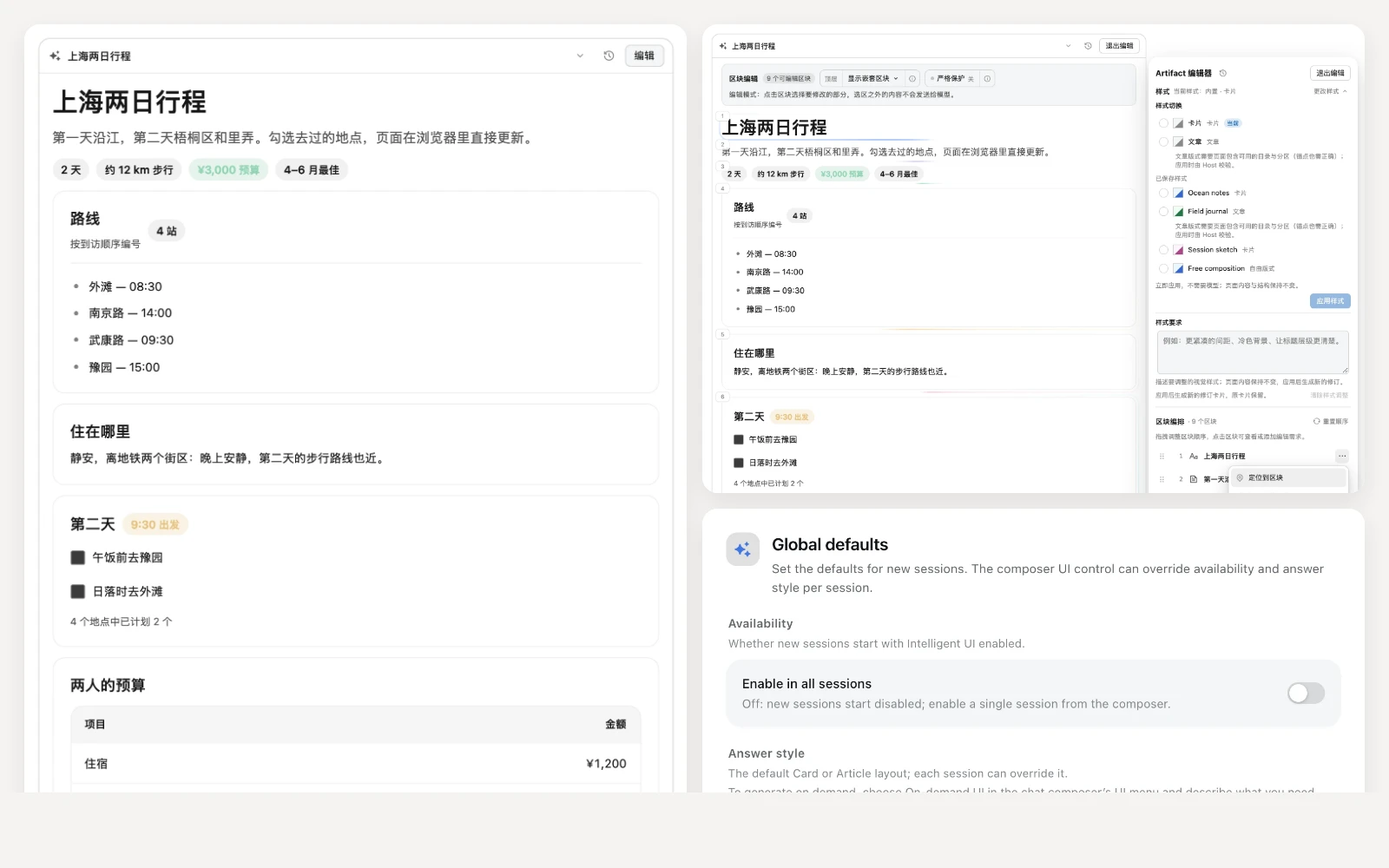
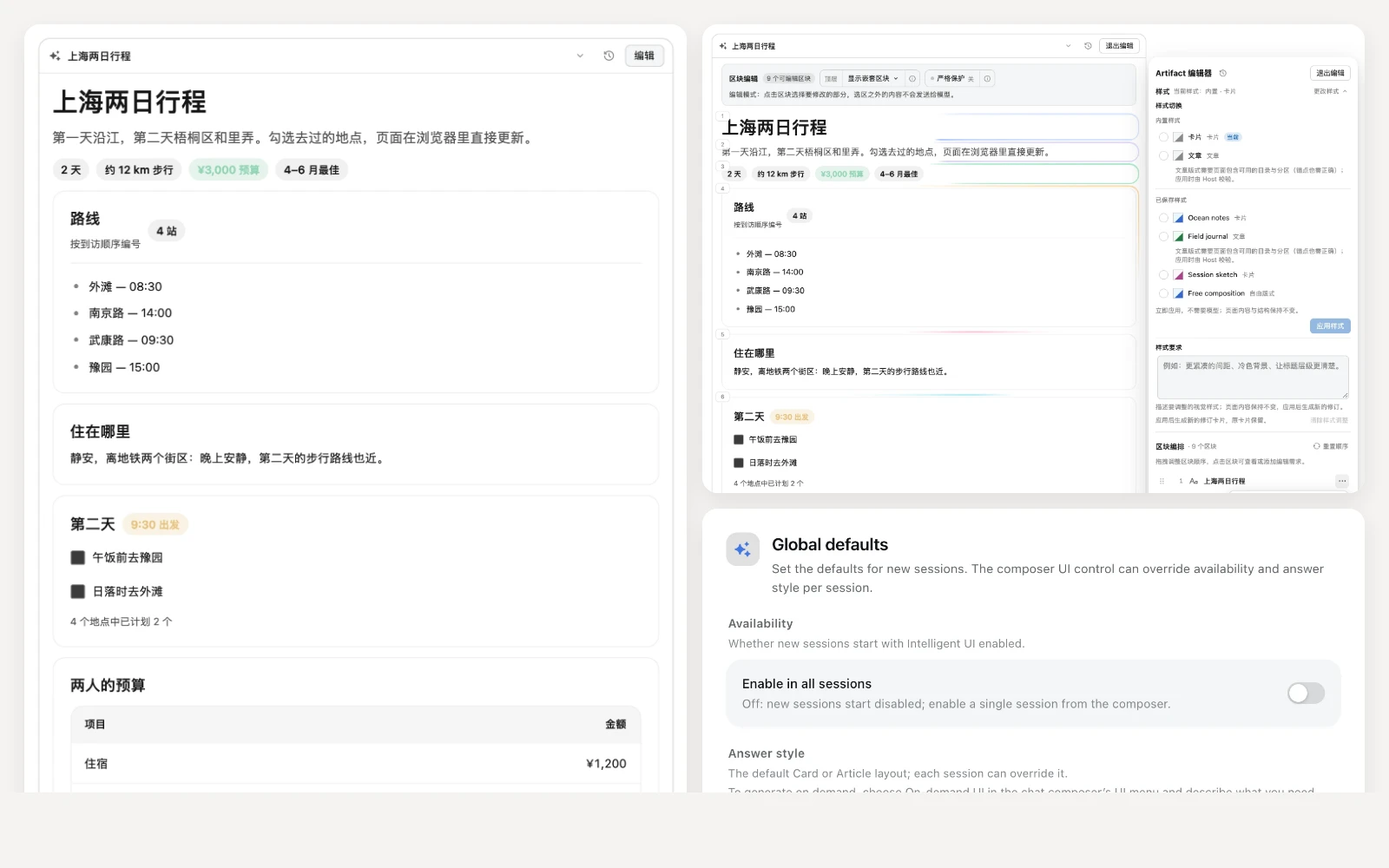
style(editor): label and separate built-in vs saved style groups
The style picker now shows "Built-in styles" and "Saved styles" as explicit
group labels with a divider between them. Both remain options in one native
radio group, so the visual split is presentational; the current badge,
swatches, layout labels and Article hint are unchanged. Regenerate the editor
captures and sync facts (client CSS 221.7 kB; pack 65 files,
6,046,933 / 12,893,833 bytes).

Changed region(s): [[0.6875, 0.124, 0.9688, 0.558]]

diff --git a/src/client/artifact-edit/EditPanel.tsx b/src/client/artifact-edit/EditPanel.tsx
@@ -1548,7 +1548,14 @@ export function EditPanel({ t, session, actions, closing = false, onOpenHistory,
                           : option.layout === 'article' ? t('edit.historyStyleArticle') : t('edit.historyStyleFree')
                         return (
                           <div className="dsh-iui-edit-style-target-group" key={`${option.target.kind}:${option.target.kind === 'template' ? option.target.styleId : option.layout}`}>
-                            {firstSaved ? <span className="dsh-iui-edit-style-saved-group" data-dsh-iui-edit-style-saved-group>{t('edit.styleSavedGroup')}</span> : null}
+                            {index === 0 && !saved ? (
+                              <span className="dsh-iui-edit-style-group-label" data-dsh-iui-edit-style-builtin-group>{t('edit.styleBuiltinGroup')}</span>
+                            ) : null}
+                            {firstSaved ? (
+                              <div className="dsh-iui-edit-style-group-separator" role="presentation">
+                                <span className="dsh-iui-edit-style-group-label" data-dsh-iui-edit-style-saved-group>{t('edit.styleSavedGroup')}</span>
+                              </div>
+                            ) : null}
                             <label
                               className={`dsh-iui-edit-style-target${checked ? ' is-checked' : ''}${current ? ' is-current' : ''}`}
                               onPointerEnter={() => { previewSwitchOption(option) }}

diff --git a/src/shared/locales.ts b/src/shared/locales.ts
@@ -347,6 +347,7 @@ export const zh = {
   'edit.styleUnavailable': '当前 Host 不支持样式调整；请刷新或升级后再试。',
   'edit.a11yStyleCleared': '已清除样式调整',
   'edit.styleSwitchGroup': '样式切换',
+  'edit.styleBuiltinGroup': '内置样式',
   'edit.styleSwitchNote': '立即应用，不需要模型；页面内容与结构保持不变。',
   'edit.styleSwitchApply': '应用样式',
   'edit.styleSwitchBusy': '正在切换…',
@@ -880,6 +881,7 @@ export const en: Record<keyof typeof zh, string> = {
   'edit.styleUnavailable': 'This Host does not support style editing; refresh or upgrade and try again.',
   'edit.a11yStyleCleared': 'Style change cleared',
   'edit.styleSwitchGroup': 'Switch style',
+  'edit.styleBuiltinGroup': 'Built-in styles',
   'edit.styleSwitchNote': 'Applies immediately without a model turn; page content and structure stay unchanged.',
   'edit.styleSwitchApply': 'Apply style',
   'edit.styleSwitchBusy': 'Switching…',

diff --git a/src/client/artifact-edit/artifact-edit.css b/src/client/artifact-edit/artifact-edit.css
@@ -963,11 +963,20 @@
   min-width: 0;
 }
 
-.dsh-iui-edit-style-saved-group {
-  margin-top: 4px;
+.dsh-iui-edit-style-group-label {
+  display: block;
+  margin: 2px 0 4px;
   color: var(--dsw-alias-label-tertiary);
   font-size: 11px;
+  font-weight: 600;
   line-height: 16px;
+  letter-spacing: 0.02em;
+}
+
+.dsh-iui-edit-style-group-separator {
+  margin: 6px 0 2px;
+  padding-top: 8px;
+  border-top: 1px solid var(--dsw-alias-border-l1);
 }
 
 .dsh-iui-edit-style-target {

diff --git a/CHANGELOG.md b/CHANGELOG.md
@@ -11,7 +11,7 @@ been published yet.
 
 - **Revision history supports deletion.** Recorded revisions now expose an icon-only trash Delete action (with an accessible label) behind an inline confirmation. The authenticated revision probe route accepts `DELETE` for the same artifact/revision identity; the Host deletes the durable record and its retained program, refuses the initial render, and refuses a revision that is still another revision's base (`409 revision_referenced`). Deleting the current/latest record is allowed and the next newest record becomes latest. The client removes matching local revision cards and refreshes the open history; already-rendered model cards are not removed. No new durable field or history source enum value is introduced.
 
-- **Deterministic style switching in the Artifact editor (zero model).** The style section can now switch a rendered page to a built-in Card/Article layout or a visible saved template without a model turn: the client previews the template theme and Article shell locally, and Apply records a new revision with the same program and the resolved `style`/`styleId` (a result-owned temporary snapshot is dropped; built-in Free is rejected, Free only through a saved free template). The existing authenticated `POST /api/intelligent-ui/artifact-structure` gains a request-level `targetStyle` plus empty `operations` under a single-intent contract; the Host resolves durable targets (`style_missing` for invisible/deleted session templates), reuses the exact Toc/Section+anchor article predicate (moved into `src/host/program-validation.ts`), verifies the claimed base style identity for recorded base revisions (revision ≥ 2; revision 1 has no stored record, 409 `base_style_mismatch`, nothing written), applies the no-op/drop-snapshot rules, and records a `struct_` revision without `editedBlockIds` as the switch signature. No new durable revision fields or history enum values: old clients see a structure revision, new clients label it as a style switch, and an optional `styleSwitch` capability bit hides the picker on old Hosts. Revisions are local cards only (not in transcript replay/export) and template directives do not reflow content — both documented as limits. Verification: Node **621/621** (Host **301**, Client **299**, packaging **21**); browser 9/9, `artifact-edit` **498 checks**; `npm run pack:check` **65 files**, **6,047,305** bytes packed, **12,894,718** bytes unpacked.
+- **Deterministic style switching in the Artifact editor (zero model).** The style section can now switch a rendered page to a built-in Card/Article layout or a visible saved template without a model turn: the client previews the template theme and Article shell locally, and Apply records a new revision with the same program and the resolved `style`/`styleId` (a result-owned temporary snapshot is dropped; built-in Free is rejected, Free only through a saved free template). The existing authenticated `POST /api/intelligent-ui/artifact-structure` gains a request-level `targetStyle` plus empty `operations` under a single-intent contract; the Host resolves durable targets (`style_missing` for invisible/deleted session templates), reuses the exact Toc/Section+anchor article predicate (moved into `src/host/program-validation.ts`), verifies the claimed base style identity for recorded base revisions (revision ≥ 2; revision 1 has no stored record, 409 `base_style_mismatch`, nothing written), applies the no-op/drop-snapshot rules, and records a `struct_` revision without `editedBlockIds` as the switch signature. No new durable revision fields or history enum values: old clients see a structure revision, new clients label it as a style switch, and an optional `styleSwitch` capability bit hides the picker on old Hosts. Revisions are local cards only (not in transcript replay/export) and template directives do not reflow content — both documented as limits. Verification: Node **621/621** (Host **301**, Client **299**, packaging **21**); browser 9/9, `artifact-edit` **498 checks**; `npm run pack:check` **65 files**, **6,046,933** bytes packed, **12,893,833** bytes unpacked.
 - **Natural-language style editing inside the Artifact editor (B1).** The edit canvas gains a style section: a bounded instruction (max 2000 chars) asks the model to restyle the rendered page while keeping its recorded layout (card/article/free never cross). The edit request is now a discriminated `block`/`style` union; the block envelope header and program body stay compatible (the prose is now generated from the shared contract helper, so the whole serialized text is not byte-identical), and the style variant carries no block/arrangement/global fields. A style request is applied with `render_ui` exactly once (`editRequestId` + complete program + recorded style + complete `temporaryStyle`, no `styleId`); the Host accepts the model-approved snapshot only because the pending style request authorizes it, never auto-applies a style request without an explicit selector, rejects a style apply while an on-demand operation is bound (no double result-snapshot write), shares one snapshot validator with on-demand, records the revision with the model snapshot (no `styleId`/`editedBlockIds`), treats an unchanged program+snapshot as a no-op, and adds a preservation warning for a wholesale redesign. The editor hides the legacy footer Adjust style action when the Host advertises the capability and the card is editable (old Hosts or non-editable cards keep the fallback); Save as template stays. Root-cause fix: a revision carrying a `temporaryStyle` now registers its ResultStore snapshot under the revision id before the revision write, so Save as template (and the legacy footer action) work on edited/restored/structure temporary revisions; history infers these without new durable fields, and an optional `styleEdit` projection bit drives the capability without changing revision/history schemas. Verification: see the B1 entry of `docs/verification.md`.
 - **Artifact base registration lifecycle.** Cards rendered before the authoritative program registry existed had no Host state, so structure operations, revision history and restore failed differently (404 `artifact_missing`/`base_missing`, empty history, `source_missing`). A new authenticated `POST /api/intelligent-ui/artifact-base` closes the gap with one write-once registration transition that covers both legacy shapes — the initial anchor (`revisionId === artifactId`; revision 1 is program-only and revision records start at 2) and a recorded anchor (`revisionId` belongs to the artifact, e.g. after the program was LRU-evicted) — validates the program structurally, never overwrites a registered program (the same program is an idempotent no-op with `registered:false`, a different one is 409 `program_conflict`), writes no revision record, caps the body at 1 MiB (a 200k multi-byte program can exceed 300 KiB) and never echoes the program. The structure route now shares one `resolveArtifactBase` boundary (`artifact_missing` vs `base_missing` and their text unchanged), and the restore route keeps its existing program-only fallback unchanged. Accepted deviations are documented instead of hidden: a registered initial revision's `createdAt` becomes the registration time, untouched old cards stay unregistered (no backfill), and evicted non-current programs stay unrecoverable client-side. Verification: see the base-registration entry of `docs/verification.md`; the B2 gate is recorded in the B2 entry. Review follow-ups: a failed authoritative request invalidates the client registration cache so close/reopen genuinely retries (guarded against stale in-flight answers), the program store writes to disk before committing memory so a 500 leaves no phantom registration, an over-limit padded program is rejected as 400 `invalid_program`, and the restore route keeps its pre-existing program-only fallback (no semantics change).
 - **Old cards register automatically on first authoritative use.** The client's single `ensureArtifactBase` entry (single-flight plus a permanent per-artifact/revision cache) fires when the edit canvas opens (new, retained and submitted-reused drafts), before the structure preview and apply POSTs, before loading the revision-history dialog and before restore sends. It posts the rendered program once and caches `present`/`registered`; a 404 from an old Host caches an unsupported capability for that revision (degrade, never probe it again); network/other failures stay retryable and never surface to the user. Old-Host mixed deployments therefore degrade to instruction editing or a re-render instead of blocking. Verification: `test/host/artifact-base.test.mjs` (12 tests), `test/client/artifact-base.test.mjs` (5 tests), 3 new store tests in `test/client/artifact-edit.test.mjs`, and browser scenario 36 (one registration per legacy card, registration before structure requests, old-Host 404 degrade, new preview/props copy).
@@ -85,8 +85,10 @@ been published yet.
 
 ### Fixed
 
+- **The style picker visually separates Built-in styles from Saved styles.** The two groups now carry their own labels and a divider; all options stay in one mutually exclusive radio group, so the grouping is presentation only. Template swatches and layout labels are unchanged.
+
 - **The style-switch target controls are custom-drawn radios.** The B2 picker now draws its own 16px exact-circle ring/dot selected state instead of the native OS radio, while keeping the native input for keyboard and assistive technology; forced-colors keeps a visible checked/focus state. The style color swatches are now square color chips (canvas/accent): removing the border radius lets both theme colors fill all four corners instead of leaving transparent clipped corners. The `background-origin`/`background-clip` declarations now follow the `background` shorthand (which resets them to padding-box), so the gradient covers the border box and no 1px edge seam remains. The radio still resets the shell theme's global superellipse with `corner-shape: round` so it renders a true 16px circle; the editor screenshots were regenerated.
-- **Model tool-call contracts are now single-sourced and Host-coupled, and the third/fourth review rounds' edge paths are fixed.** `styleEditToolContract`/`buildStyleEditToolArgs` and `blockEditToolContract`/`buildBlockEditToolArgs` define the required/optional/forbidden render_ui and edit_ui_blocks arguments; the serializers emit a generated `Tool-call contract:` line, and Host coupling tests execute the helper-produced args (style builtin/saved/temporary; block fragments/order-only, including requestId/styleId selectors) so the envelope cannot drift from the Host. Block prose now escapes `<` in instructions/additions/global prose, and the parser only accepts a header on the next line and skips program-body markers (including a literal `<artifact-program>`). An order-only/global-only edit now reports the recorded title/styleId (including `presentationMeta`), temporary-style additions-only sends are allowed, pending block edits render the artifact's recorded style instead of the session template (no order-only template deadlock), recorded result-owned snapshots are authoritative for content edits, unsaved block drafts block a style switch, and the Article hint/dirty copy is accurate. The fourth-pass review fixes are included too: the route capability is updated from the deferred inject callback with a boolean-safe schema, block titles are escaped in prose, the sent-message summary uses the own-line program fence, and the E2E applies a reachable saved card template. Verification: Node **621/621** (Host **301**, Client **299**, packaging **21**); browser 9/9, `artifact-edit` **498 checks**; pack 65 files, **6,047,305** packed / **12,894,718** unpacked.
+- **Model tool-call contracts are now single-sourced and Host-coupled, and the third/fourth review rounds' edge paths are fixed.** `styleEditToolContract`/`buildStyleEditToolArgs` and `blockEditToolContract`/`buildBlockEditToolArgs` define the required/optional/forbidden render_ui and edit_ui_blocks arguments; the serializers emit a generated `Tool-call contract:` line, and Host coupling tests execute the helper-produced args (style builtin/saved/temporary; block fragments/order-only, including requestId/styleId selectors) so the envelope cannot drift from the Host. Block prose now escapes `<` in instructions/additions/global prose, and the parser only accepts a header on the next line and skips program-body markers (including a literal `<artifact-program>`). An order-only/global-only edit now reports the recorded title/styleId (including `presentationMeta`), temporary-style additions-only sends are allowed, pending block edits render the artifact's recorded style instead of the session template (no order-only template deadlock), recorded result-owned snapshots are authoritative for content edits, unsaved block drafts block a style switch, and the Article hint/dirty copy is accurate. The fourth-pass review fixes are included too: the route capability is updated from the deferred inject callback with a boolean-safe schema, block titles are escaped in prose, the sent-message summary uses the own-line program fence, and the E2E applies a reachable saved card template. Verification: Node **621/621** (Host **301**, Client **299**, packaging **21**); browser 9/9, `artifact-edit` **498 checks**; pack 65 files, **6,046,933** packed / **12,893,833** unpacked.
 
 - **Switching the Intelligent UI scope no longer forces the Display style panel open.** Choosing Off / This session only / Follow global now only sends the scope command; the style panel opens from exactly two explicit entries — the menu's **Display style** row, or clicking the already-active scope entry when it resolves to enabled (an off scope, or follow-global while the global switch is off, simply closes the menu). The style-panel E2E asserts no auto-open after a scope switch and covers both explicit routes.
 

diff --git a/docs/architecture.en.md b/docs/architecture.en.md
@@ -210,7 +210,7 @@ A rendered page can be revised in place inside its card: an **Edit** entry in th
 - **Request contract**: the existing authenticated struct route `POST /api/intelligent-ui/artifact-structure` gains a request-level `targetStyle` (discriminated union: `{kind:'builtin', layout:'card'|'article'}` or `{kind:'template', styleId:'cs_…'}`) and `sessionStyleScope` (the resolution scope for session templates, a selector rather than authorization). Single-intent rule: with `targetStyle`, `operations` must be empty (`style_with_operations`) and `preview` is unsupported (`preview_not_supported`); without a target the previous non-empty-operations semantics stay. Targets are durable identities only — built-in layouts or visible saved templates; no client snapshot/directives/theme is ever accepted, and built-in `free` is rejected (free only through a saved free template).
 - **Host execution**: the target identity is resolved Host-side (builtin → layout; template → `styles.resolve(styleId, sessionStyleScope)`, invisible/deleted → 404 `style_missing`); an Article target reuses the exact Toc/Section + anchor predicate render_ui uses (`src/host/program-validation.ts::describeArticleLayoutProblem`, moved verbatim from index.ts) → 400 `article_unavailable`; when recording, for a base that already has a revision record (revision ≥ 2) the client's claimed base `style`/`styleId` must match the authoritative record (otherwise 409 `base_style_mismatch`, nothing written — applied to those struct requests, fixing the previous body-identity trust); the initial revision 1 has no stored record, so its identity still comes from the request/registration. A base without a temporary snapshot whose identity already equals the target → 400 `no_change`; a temporary-style base with any durable target is always a change (the snapshot is dropped). On success the program is **byte-identical** to the base, `style`/`styleId` come from the resolved target, no `temporaryStyle`/`editedBlockIds` are written, and the `struct_` revision id, `latest+1`, branch, idempotency ledger, program registry and response shape are unchanged.
 - **History/compatibility**: no new durable revision fields or `ArtifactHistorySource` values. A `struct_` revision without `editedBlockIds` is the deterministic style-switch signal: the Host still reports source `structure` (old clients show "structure operation" and restore/branch normally), while new clients label it as a style switch using that convention. Old Host + new client: the missing capability hides the picker; new Host + old client: nothing visible changes.
-- **Client/UI**: the edit-panel style section adds a "Switch style" single-intent radio picker (built-in Card/Article; saved templates with swatches and layout; Article keeps a static Toc/Section hint); hover/focus previews the theme and Article wrapper locally, and an explicit "Apply style" sends the request (the programmatic open-focus does not preview). It sits apart from B1's describe-style flow (one zero-model immediate apply, one composer request). Success adds a local style revision card (`kind:'style'`), closes the editor and creates no composer chip; failures map `style_missing`/`article_unavailable`/`base_not_latest`/`base_style_mismatch`/`no_change` to inline copy; a dirty draft or busy state blocks Apply; `style_missing` triggers a catalog refresh.
+- **Client/UI**: the edit-panel style section adds a "Switch style" single-intent radio picker; targets are shown as two labeled groups with a divider — Built-in styles and Saved styles — inside one mutually exclusive radiogroup (built-in Card/Article; saved templates with swatches and layout; Article keeps a static Toc/Section hint); hover/focus previews the theme and Article wrapper locally, and an explicit "Apply style" sends the request (the programmatic open-focus does not preview). It sits apart from B1's describe-style flow (one zero-model immediate apply, one composer request). Success adds a local style revision card (`kind:'style'`), closes the editor and creates no composer chip; failures map `style_missing`/`article_unavailable`/`base_not_latest`/`base_style_mismatch`/`no_change` to inline copy; a dirty draft or busy state blocks Apply; `style_missing` triggers a catalog refresh.
 - **Limits**: this switches identity + shell + theme; template `directives` do not reflow existing content (that needs a model render). Deterministic style revisions are local revision cards: they do not enter the assistant message, transcript replay, image/HTML export or other devices (same limitation as structure/property revisions). The H4 boundary is fixed — a pending block edit renders the artifact's recorded style/template, so render_ui order-only/global-only edits are no longer rejected because the session style differs (content edits through `edit_ui_blocks` are unaffected). `sessionStyleScope` is only template visibility scope, not an authorization boundary.
 - **Verification**: see the host/client/browser tests and the final gate record (contract unit tests, struct-route matrix with mutation checks, client POST/dirty/local-revision/history-label tests, E2E scenario 40).
 
@@ -270,7 +270,7 @@ A rendered page can be revised in place inside its card: an **Edit** entry in th
 - **Panel ↔ canvas mapping, focus mode and pending markers (follow-up)**: arrangement/nested/request rows and canvas blocks hover-sync both ways (neutral 2px blue frame + 4% wash while not selected/edited); root blocks always show their page-order index (nested blocks only on hover); a pending row keeps its page index and adds a request-number badge after the title with a tooltip; each row gains a **More** menu (locate/edit/duplicate/move/delete); locating reuses the 900ms flash and row-body click still locates. Opening any block editor dims the other blocks with a scrim while the edited block keeps its frame; Save/Cancel clears it. Save no longer leaves the big selected frame: the block becomes a quiet pending marker (dot + request number) and its root orbit glow runs slower/dimmer (5.2s, 0.3); the `selection` data is unchanged and still ships on send. Deterministic Apply/structure operations keep the existing record-then-exit behaviour (1A).
 - **State consistency**: the unsent-content guard uses `hasArtifactEditContent` (including nested ordering); async structure/property failures patch the current session only (no resurrecting closed/submitted editors); nested kinds reuse the shared mapping; the quick panel focuses its first control, exposes `aria-busy`, `edit.propsUnit` and stale-base/no-change/busy copy.
 - **Limits and budget**: only the Divider/Spacer properties above are adjustable; property revisions are local-storage cards like the other local revisions and do not participate in export; custom CSS colours are constrained by the renderer's `isSafeCss` and a conservative Host format check; the old `.dsh-iui-block` wrapper boxes no longer exist, so tests use the overlay hit/frame selectors. The CST node budget is 200 (was 60): long article pages such as the 105-node Solid 2.0 guide now expose nested Spacers and quick adjust, and a 66-node fixture regresses this in the browser suite.
-- **Verification**: **621/621** Node tests; 9/9 browser suites; `artifact-edit` **498 checks** (layout parity, nested preview, quick panel, custom dropdowns/slider, slider live preview, pinned popover/stable on unit switch, large-page nesting, deterministic request body, property revision card, dirty refusal, dynamic fallback, apply disabled/focus); `nested-edit-renderer` 75; client CSS 221.5 kB; standalone 3.33 MB + 514.4 kB; pack 65 files 6.04 MB / 12.88 MB; harness screenshots `.tmp-report/harness-quick-props.png` and `.tmp-report/harness-pending-block.png`.
+- **Verification**: **621/621** Node tests; 9/9 browser suites; `artifact-edit` **498 checks** (layout parity, nested preview, quick panel, custom dropdowns/slider, slider live preview, pinned popover/stable on unit switch, large-page nesting, deterministic request body, property revision card, dirty refusal, dynamic fallback, apply disabled/focus); `nested-edit-renderer` 75; client CSS 221.7 kB; standalone 3.33 MB + 514.4 kB; pack 65 files 6.04 MB / 12.88 MB; harness screenshots `.tmp-report/harness-quick-props.png` and `.tmp-report/harness-pending-block.png`.
 
 ### Artifact authoritative-state lifecycle and base registration (2026-11-07)
 
@@ -437,7 +437,7 @@ The skill files also ship with the package as an ordinary directory (`skills/`),
 - Structural delete is a persistent two-step flow inside the same menu: choosing Delete switches the menu to a dialog-semantics `data-dsh-iui-edit-structure-confirm` panel with quiet Cancel and danger-tinted Delete buttons, with no row tint or large pill. The confirmation only ends on Cancel, Delete, outside pointerdown, Escape, another structure action, preview opening, busy or unmount. Focus starts on Cancel and returns to the row trigger on cancel/leave; the live region announces once.
 - The input focus orbit applies only to text inputs, textareas and contenteditable fields; native selects and the quick-adjust dropdown triggers keep their normal menu focus treatment.
 - The block instruction popover now computes a preferred top and clamps it into `[12, viewportHeight - 12 - measuredHeight]` (left was already clamped), so anchors scrolled out of view can no longer place the textarea offscreen. The popover scroll box reserves 4px of bottom padding inside its `overflow-y: auto` padding box, so the focused textarea focus cue also keeps visible room.
-- Verification: 621/621 Node tests (Host 301, Client 299, packaging 21), 9/9 browser suites, `artifact-edit` 498 checks (menu keyboard/focus/Tab/forced-colors, input orbit, rounded/inset geometry, enter/exit animation names, `data-closing`, persistent delete confirmation, Cancel/Delete preview, popover clamps and the real 1180px shell fit), `nested-edit-renderer` 75, nested CSS contract 28/28 + 5/5. Build: host 837.4 kB, client 4.04 MB (js 3.82/CSS 221.5), pack 65 files 6.04/12.88 MB.
+- Verification: 621/621 Node tests (Host 301, Client 299, packaging 21), 9/9 browser suites, `artifact-edit` 498 checks (menu keyboard/focus/Tab/forced-colors, input orbit, rounded/inset geometry, enter/exit animation names, `data-closing`, persistent delete confirmation, Cancel/Delete preview, popover clamps and the real 1180px shell fit), `nested-edit-renderer` 75, nested CSS contract 28/28 + 5/5. Build: host 837.4 kB, client 4.04 MB (js 3.82/CSS 221.7), pack 65 files 6.04/12.88 MB.
 - Deployment: client-plugin changes require restarting `dsh-web`; a page refresh is not enough.
 
 ### Icon system: one Remix Icon family
@@ -446,7 +446,7 @@ The skill files also ship with the package as an ordinary directory (`skills/`),
 - The previous hand-drawn stroke set (16px-viewBox pencil, trash, duplicate, move, drag grip, refresh, close and type glyphs, plus the `✎` and `✦` characters) is gone, and the DSH primitives sparkle/chevron icons are no longer used for icons.
 - **Exception:** `Icon("…")` inside generated OpenUI programs is still resolved lazily by `src/lib/components/glyph.tsx` through `lucide-react/dynamic.mjs`, because those names are program data written by the model (existing programs use lucide names) rather than plugin chrome; switching them would break older programs.
 - Licensing: Remix Icon License v1.0 (see `licenses/remix-icon-LICENSE` and `NOTICE`).
-- Verification: 621/621 Node tests, 9/9 browser suites, `artifact-edit` 498 checks, `nested-edit-renderer` 75; build host 837.4 kB, client 4.04 MB (js 3.82 / CSS 221.5); pack 65 files 6.04 / 12.88 MB.
+- Verification: 621/621 Node tests, 9/9 browser suites, `artifact-edit` 498 checks, `nested-edit-renderer` 75; build host 837.4 kB, client 4.04 MB (js 3.82 / CSS 221.7); pack 65 files 6.04 / 12.88 MB.
 
 ### Per-artifact revision history (user feedback)
 

diff --git a/docs/architecture.md b/docs/architecture.md
@@ -212,7 +212,7 @@ projection v6 在 enable/style/pending 之外携带可空 `onDemand`（operation
 - **请求契约**：既有认证 struct 路由 `POST /api/intelligent-ui/artifact-structure` 增加请求级 `targetStyle`（判别联合：`{kind:'builtin', layout:'card'|'article'}` 或 `{kind:'template', styleId:'cs_…'}`）与 `sessionStyleScope`（session 模板的解析作用域，选择器而非鉴权）。单意图规则：带 `targetStyle` 时 `operations` 必须为空（`style_with_operations`）、不支持 `preview`（`preview_not_supported`）；不带 target 时保持原有非空 operations 语义。目标只允许 durable 身份——内置布局或可见的已保存模板；不接收客户端快照/directives/theme，内置 `free` 直接拒绝（free 只能经已保存 free 模板）。
 - **Host 执行**：目标身份由 Host 解析（builtin → 布局；template → `styles.resolve(styleId, sessionStyleScope)`，不可见/已删除 → 404 `style_missing`）；Article 目标复用与 render_ui 完全一致的 Toc/Section + anchor 判定（`src/host/program-validation.ts::describeArticleLayoutProblem`，判定逻辑从 index.ts 原样抽取）→ 400 `article_unavailable`；记录修订时，对已有修订记录（revision ≥ 2）的 base，要求客户端声明的 `style`/`styleId` 与权威记录一致（否则 409 `base_style_mismatch` 且不落盘；这些 struct 请求都校验，修复此前对已记录 base 直接信任 body 身份的问题）；初始 revision 1 没有存储记录，身份仍来自请求/登记；若 base 无临时样式且目标与 base 身份相同 → 400 `no_change`；临时样式 base + 任意 durable 目标总是变化（快照被丢弃）。成功后 program 与 base **逐字节相同**，`style`/`styleId` 来自解析后的目标，不写 `temporaryStyle`/`editedBlockIds`，沿用 `struct_` revision id、`latest+1`、branch、幂等 ledger、program registry 与响应结构。
 - **历史/兼容**：不新增 durable revision 字段或 `ArtifactHistorySource` 值。`struct_` 修订且没有 `editedBlockIds` 即确定性样式切换信号：Host `historySource` 仍为 `structure`（旧客户端按"结构操作"显示并可正常 restore/branch），新客户端按该约定显示"样式切换"标签。旧 Host + 新客户端：能力位缺失 → 隐藏 picker；新 Host + 旧客户端：无变化可见。
-- **客户端/UI**：编辑画布样式区新增「样式切换」单意图 radio picker（内置 Card/Article；已保存模板带色板与布局；Article 静态提示需 Toc/Section），悬停/聚焦即本地预览主题与 Article 外壳，显式「应用样式」才发请求（展开时的程序化聚焦不触发预览）；与 B1 的"描述式调整"分开展示（一个零模型立即应用，一个进入发送队列）。成功记录本地样式修订卡（`kind:'style'`）、关闭编辑器、不产生 composer chip；失败按 `style_missing`/`article_unavailable`/`base_not_latest`/`base_style_mismatch`/`no_change` 映射内联文案；脏草稿/忙碌阻止应用；`style_missing` 后刷新模板目录。
+- **客户端/UI**：编辑画布样式区新增「样式切换」单意图 radio picker，目标按「内置样式」与「已保存样式」两组展示并以分割线区分（同一 radiogroup，单选互斥；内置 Card/Article，已保存模板带色板与布局；Article 静态提示需 Toc/Section），悬停/聚焦即本地预览主题与 Article 外壳，显式「应用样式」才发请求（展开时的程序化聚焦不触发预览）；与 B1 的"描述式调整"分开展示（一个零模型立即应用，一个进入发送队列）。成功记录本地样式修订卡（`kind:'style'`）、关闭编辑器、不产生 composer chip；失败按 `style_missing`/`article_unavailable`/`base_not_latest`/`base_style_mismatch`/`no_change` 映射内联文案；脏草稿/忙碌阻止应用；`style_missing` 后刷新模板目录。
 - **限制**：这是"身份 + 外壳 + 主题"的切换，模板 `directives` 不会重排既有内容（需要模型重绘）；确定性样式修订是本地修订卡，不进入助理消息、transcript replay、图片/交互页面导出或其他设备（与结构/属性修订一致）；H4 已修——pending block edit 使用 artifact 记录样式/模板，`render_ui` 的 order-only/global-only 编辑不再按会话当前样式拒绝；`sessionStyleScope` 只是模板可见性作用域，不构成授权边界。
 - **验证**：见对应 host/client/browser 测试与最终门禁记录（contract 单测、struct 路由矩阵与 mutation 检查、客户端 POST/dirty/本地修订/历史标签、E2E 场景 40）。
 
@@ -272,7 +272,7 @@ projection v6 在 enable/style/pending 之外携带可空 `onDemand`（operation
 - **列表↔画布映射、编辑聚焦与 pending 标记（追加）**：编排/嵌套/请求行 hover 与画布区块双向联动（中性蓝 2px 细框 + 4% 淡底，未选中/未编辑时显示）；根层常显页面顺序索引（嵌套块仅在 hover 时显示）；有 pending 请求的行仍保留页面序号，并在标题后显示带 tooltip 的请求序号 badge；行尾新增「更多」菜单（定位/编辑/复制/移动/删除；定位仍复用 900ms 脉冲），保留点击行主体定位。打开任一区块编辑器时，其余区块被 scrim 压暗，当前区块保留编辑框；Save/Cancel 关闭后 scrim 消失。Save 不再保留大选中框：改为「圆点 + 请求序号」的低调 pending 标记，pending 根层区块的 orbit glow 降速（5.2s）变淡（0.3）；`selection` 数据不变，发送时照常提交。确定性 Apply/结构操作仍按既定行为记录修订并退出编辑（1A 不变）。
 - **状态一致性**：未发送拦截统一用 `hasArtifactEditContent`（包含嵌套排序）；异步结构/属性请求失败只回写当前 session（不会复活已关闭/已提交的编辑器）；嵌套 kind 复用共享映射；快捷面板打开即聚焦、`aria-busy`、`edit.propsUnit`、stale-base/no-change/busy 文案齐全。
 - **限制与预算**：快捷调整只支持 Divider/Spacer 的上述属性；属性修订卡与其他本地修订一样只在 localStorage/触发 Turn 渲染，不参与导出；自定义 CSS 颜色由渲染器 `isSafeCss` 约束，Host 只做保守格式校验；根层 wrapper 已无盒子，依赖 `.dsh-iui-block` 盒子的旧样式/hook 不再存在（测试改为 overlay hit/frame 选择器）。CST 节点预算为 200（此前 60）：长文章页面（如 105 节点的 Solid 2.0 导览）现在可以找到嵌套 Spacer 并使用快捷调整；66 节点 fixture 在浏览器套件中回归。
-- **验证**：Node **621/621**；浏览器 9/9；`artifact-edit` **498 checks**（布局 parity、嵌套 preview、快捷面板、自绘下拉/滑块、滑块即时预览、popover 固定/单位切换不位移、大页面嵌套、确定性请求体、属性修订卡、dirty 拦截、动态回退、apply 禁用/焦点），`nested-edit-renderer` 75；CSS 客户端 221.5 kB；standalone 3.33 MB + 514.4 kB；pack 65 files 6.04 MB / 12.88 MB；harness 截图 `.tmp-report/harness-quick-props.png`、`.tmp-report/harness-pending-block.png`。
+- **验证**：Node **621/621**；浏览器 9/9；`artifact-edit` **498 checks**（布局 parity、嵌套 preview、快捷面板、自绘下拉/滑块、滑块即时预览、popover 固定/单位切换不位移、大页面嵌套、确定性请求体、属性修订卡、dirty 拦截、动态回退、apply 禁用/焦点），`nested-edit-renderer` 75；CSS 客户端 221.7 kB；standalone 3.33 MB + 514.4 kB；pack 65 files 6.04 MB / 12.88 MB；harness 截图 `.tmp-report/harness-quick-props.png`、`.tmp-report/harness-pending-block.png`。
 
 ### Artifact 权威状态生命周期与基础登记（2026-11-07）
 
@@ -440,7 +440,7 @@ free 临时结果或选中的自由模板中，下述页面形态与排版指导
 - 编排行右侧是一个正常的 24px「更多」触发器 `[data-dsh-iui-edit-row-menu]`，不再有覆盖文字的动作组；它打开 portal 菜单，包含定位、编辑、复制、移动到…、删除五项（`data-dsh-iui-edit-locate` / `-structure-edit` / `-structure-duplicate` / `-move` / `-structure-delete`），菜单项有 role=menuitem、方向键/Home/End、Escape、外部点击和焦点返回；触发器在正常 flow 中，标题不会与按钮重叠。
 - 结构性删除是菜单内的持久两态确认：选择「删除区块」后，同一个菜单切换为 `data-dsh-iui-edit-structure-confirm` 的安静 Cancel 与 danger-tinted Delete 两个按钮（该步骤用 dialog 语义），无行红底/大红 pill；确认态只在 Cancel、Delete、外部点击、Escape、其它结构动作、预览打开、busy 或卸载时结束。焦点进入时落到 Cancel，取消/离开时回到行触发器；live region 播报一次。
 - Block 指令 popover 现在先把目标 top 计算为 `preferredTop`，再统一 clamp 到 `[12, viewportHeight - 12 - measuredHeight]`（left 原本已 clamp），所以锚点滚出视口时输入框不会再被裁切到视口外。popover 滚动容器在 `overflow-y: auto` 的 padding box 内保留 4px 底部内边距，输入框获得焦点时的轨道光晕也留出了可见余量。
-- 验证：Node **621/621**（Host 301、Client 299、packaging 21）；浏览器 9/9；`artifact-edit` **498 checks**（菜单/键盘焦点/Tab/forced-colors、输入轨道光晕、圆角/inset、enter/exit 动画名、`data-closing`、删除确认持久 / Cancel / Delete preview、popover 四边 clamp、真实 1180 shell fit）；`nested-edit-renderer` 75；`nested-css-contract` 28/28 + 5/5。构建 host 837.4 kB、client 4.04 MB（js 3.82 / css 221.5）；pack 65 files 6.04 / 12.88 MB。
+- 验证：Node **621/621**（Host 301、Client 299、packaging 21）；浏览器 9/9；`artifact-edit` **498 checks**（菜单/键盘焦点/Tab/forced-colors、输入轨道光晕、圆角/inset、enter/exit 动画名、`data-closing`、删除确认持久 / Cancel / Delete preview、popover 四边 clamp、真实 1180 shell fit）；`nested-edit-renderer` 75；`nested-css-contract` 28/28 + 5/5。构建 host 837.4 kB、client 4.04 MB（js 3.82 / css 221.7）；pack 65 files 6.04 / 12.88 MB。
 - 部署：client 插件改动必须重启 `dsh-web` 后才会加载；页面刷新不足。
 
 ### 图标系统：统一 Remix Icon
@@ -449,7 +449,7 @@ free 临时结果或选中的自由模板中，下述页面形态与排版指导
 - 之前手绘的 stroke 图标（16px viewBox 的铅笔/垃圾桶/复制/移动/拖拽柄/刷新/关闭/类型图标，以及字符 `✎`、`✦`）全部替换；DSH primitives 的 `IconSparkleRegular` / `IconChevronDownOutlineRegular` 也不再用于图标。
 - **例外**：OpenUI 程序内容里的 `Icon("…")` 仍由 `src/lib/components/glyph.tsx` 用 `lucide-react/dynamic.mjs` 惰性解析——那是模型生成的程序数据（历史程序里写的是 lucide 名称），不是插件 chrome，替换会破坏既有程序。
 - 许可：Remix Icon License v1.0（见 `licenses/remix-icon-LICENSE` 与 `NOTICE`）。
-- 验证：Node 621/621、浏览器 9/9、`artifact-edit` 498 checks、`nested-edit-renderer` 75；构建 host 837.4 kB、client 4.04 MB（js 3.82 / css 221.5）；pack 65 files 6.04 / 12.88 MB。
+- 验证：Node 621/621、浏览器 9/9、`artifact-edit` 498 checks、`nested-edit-renderer` 75；构建 host 837.4 kB、client 4.04 MB（js 3.82 / css 221.7）；pack 65 files 6.04 / 12.88 MB。
 
 ### 按 Artifact 的修订历史（用户反馈新增）
 

diff --git a/.agents/skills/sync-iui-docs/references/verification.md b/.agents/skills/sync-iui-docs/references/verification.md
@@ -6,7 +6,7 @@ Run from the repo root. Current expected values are dated 2026-11-08; derive the
 
 | Command | Expected (2026-11-08) | What it proves |
 | --- | --- | --- |
-| `npm run check` | typecheck `tsc --noEmit` (pass; `src/client` excluded because its DSH platform types are not local dependencies); build: `host lib/index.js 837.4 kB`, `client lib/client.js 4.04 MB (js 3.82 MB, css 221.5 kB)`, `lib/standalone.js 3.33 MB + lib/standalone.css 514.4 kB`; tests: 621 total = Host 301 + Client 299 + packaging 21; `check: 42/42` gallery parsed; `render-check: 42/42` plus free composition in light/dark; `contrast-check: colour contract OK`; `i18n-check: localized chrome OK (4 programs)`; `typography-check: 22/22`; `media-row-check: 17/17`; `pressable-select-check: 9/9`; `css-contract-check: 50/50`; `prop-contract-check: 63/63`; `nested-css-contract: 28/28 direct + 5/5 scoped` | Build artifacts, behavior, docs/consistency guards, renderer, i18n, typography and contract claims |
+| `npm run check` | typecheck `tsc --noEmit` (pass; `src/client` excluded because its DSH platform types are not local dependencies); build: `host lib/index.js 837.4 kB`, `client lib/client.js 4.04 MB (js 3.82 MB, css 221.7 kB)`, `lib/standalone.js 3.33 MB + lib/standalone.css 514.4 kB`; tests: 621 total = Host 301 + Client 299 + packaging 21; `check: 42/42` gallery parsed; `render-check: 42/42` plus free composition in light/dark; `contrast-check: colour contract OK`; `i18n-check: localized chrome OK (4 programs)`; `typography-check: 22/22`; `media-row-check: 17/17`; `pressable-select-check: 9/9`; `css-contract-check: 50/50`; `prop-contract-check: 63/63`; `nested-css-contract: 28/28 direct + 5/5 scoped` | Build artifacts, behavior, docs/consistency guards, renderer, i18n, typography and contract claims |
 | `npm run pack:check` | 65 files; tarball ≈ 6.04 MB, unpacked ≈ 12.88 MB (sizes vary with the working tree — derive from the current command output); includes `README.md`, `README.en.md`, `assets/`, `skills/`, `locale/`, `licenses/` (docs and `CHANGELOG.md` excluded) | Packaging claims, shipped-file lists, screenshot assets |
 | `node --test test/packaging/*.test.mjs` | 21 pass (manifest 9 + reference catalog 6 + guardrails 6) | Package, README pair and changelog, screenshots, locale meta, catalog counts, prompt/Skill guardrails, decision policy, the `render_ui` contract rows and the shipped file count |
 | `node --test test/packaging/guardrails.test.mjs` | 6 pass | The prompt and Agent Skill keep the extension checkout read-only while answering, and the enabled-session decision policy stays single-sourced |

diff --git a/docs/verification.md b/docs/verification.md
@@ -539,7 +539,7 @@ Composer「显示样式」面板接入与设置页相同的模板交换入口：
 
 | 命令 / 检查 | 本轮结果 |
 | --- | --- |
-| `npm run check` | PASS；Node **621/621** = Host **301** + Client **299** + packaging **21**；build host **837.4 kB**、client **4.04 MB**（js 3.82 / css 221.5）、standalone 3.33 + 514.4 |
+| `npm run check` | PASS；Node **621/621** = Host **301** + Client **299** + packaging **21**；build host **837.4 kB**、client **4.04 MB**（js 3.82 / css 221.7）、standalone 3.33 + 514.4 |
 | `npm run test:browser` | PASS；9/9 套件；`artifact-edit` **498 checks**、`nested-edit-renderer` 75 |
-| `npm run pack:check` | PASS；**65** 个文件，压缩 **6,047,305** 字节，解包 **12,894,718** 字节 |
+| `npm run pack:check` | PASS；**65** 个文件，压缩 **6,046,933** 字节，解包 **12,893,833** 字节 |
 | 结构 | 双语标题 parity、本地链接/锚点、截图引用、`git diff --check` 全 OK |

diff --git a/docs/verification.en.md b/docs/verification.en.md
@@ -559,7 +559,7 @@ Four structural guards added after the review loop:
 
 | Command / check | Result |
 | --- | --- |
-| `npm run check` | PASS; **621/621** Node tests = Host **301** + Client **299** + packaging **21**; build host **837.4 kB**, client **4.04 MB** (js 3.82 / CSS 221.5), standalone 3.33 + 514.4 |
+| `npm run check` | PASS; **621/621** Node tests = Host **301** + Client **299** + packaging **21**; build host **837.4 kB**, client **4.04 MB** (js 3.82 / CSS 221.7), standalone 3.33 + 514.4 |
 | `npm run test:browser` | PASS; 9/9 suites; `artifact-edit` **498 checks**, `nested-edit-renderer` 75 |
-| `npm run pack:check` | PASS; **65** files, **6,047,305** bytes packed, **12,894,718** bytes unpacked |
+| `npm run pack:check` | PASS; **65** files, **6,046,933** bytes packed, **12,893,833** bytes unpacked |
 | Structure | bilingual heading parity, local links/anchors, screenshot references, `git diff --check` all OK |
